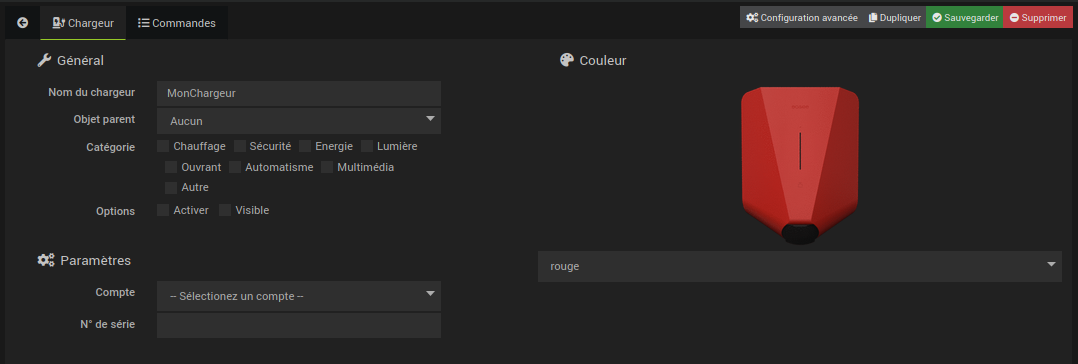
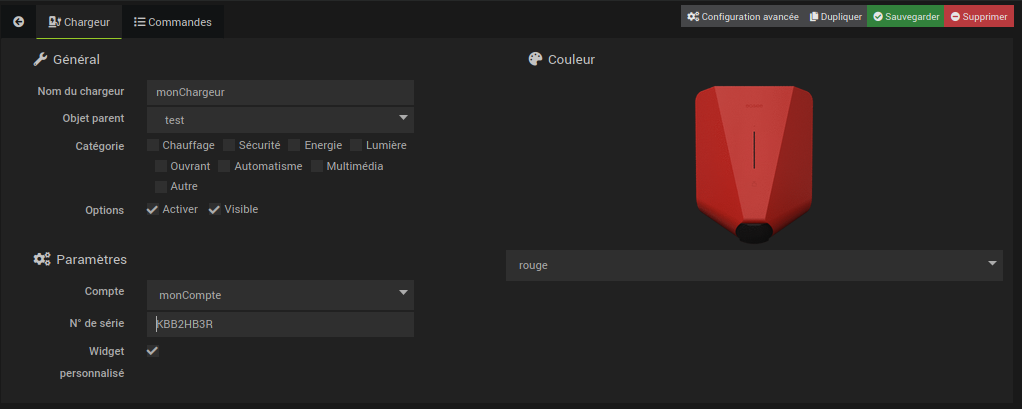
avec Widget

diff --git a/fr_FR/EaseeCharger/index.md b/fr_FR/EaseeCharger/index.md
@@ -98,6 +98,9 @@ Le démon n'est pas notifié lorsque le login ou le password d'un compte est mod
    + **N° de série**  
       Le numéro de série tel qu'il doit être saisi, par exemple, dans l'app Easee pour smartphone.
 
+   + **Widget parsonalisé**   
+      Ne pas utiliser le wigdet standard de Jeedom mias le widget spécifique pour les équipements EaseeCharger.
+
    + **Couleur**  
       Couleur du chargeur. Permet de définir l'icon du chargeur.
 
@@ -127,6 +130,8 @@ Les chargeurs sont créés avec les commandes suivantes:
 | Tension phase 1 | info | numeric | Tension phase 1 |
 | Tension phase 2 | info | numeric | Tension phase 2 |
 | Tension phase 3 | info | numeric | Tension phase 3 |
+| Signal wifi | info | numeric | Force du signal wifi (0 si communication via le réseau cellulaire) |
+| Signal cellulaire | info | numeric | Force du signal cellulaire (0 si communication via le réseau wifi) |
 
 + Le bouton ![créer les commandes manquantes](/images/EaseeCharger/btn_creer_cmds.png) permet de recréer les commandes qui ont été supprimées.
 + Le bouton ![Reconfigurer les commandes](/images/EaseeCharger/btn_reconfig_cmds.png) reconfigure les commandes avec les valeurs par défaut. 
@@ -225,7 +230,7 @@ Le tableau suivant montre les différente icônes en fonction de l'état du vér
   </tbody>
 </table>
 
-### Mise en pose de la charge
+### Mise en pause de la charge
 {: .num}
 
 ![pause](/images/EaseeCharger/btn_pause.png) : Mise en pause le la charge

diff --git a/fr_FR/EaseeCharger/changelog.md b/fr_FR/EaseeCharger/changelog.md
@@ -8,9 +8,11 @@ title : defauts
 
 Pour rappel s’il n’y a pas d’information sur la mise à jour, c’est que celle-ci concerne uniquement de la mise à jour de documentation, de traduction ou de texte.
 
-### next
+### 30/09/2022 (Beta)
 * Le port de démon n'est plus réinitialisé à la valeur par defaut lors de l'activation de plugin
 * Une class a été renommée dans le code php
+* Infos pour la qualité des signeaux wifi et cellulaire
+* Création d'un widget pour les équipements EaseeCharger (sans le bouton de mise en pause de la charge)
 
 ### 24/08/2022 (Beta)
 * La port de démon n'est plus réinitialisé à la valeur par defaut lors de l'activation de plugin
